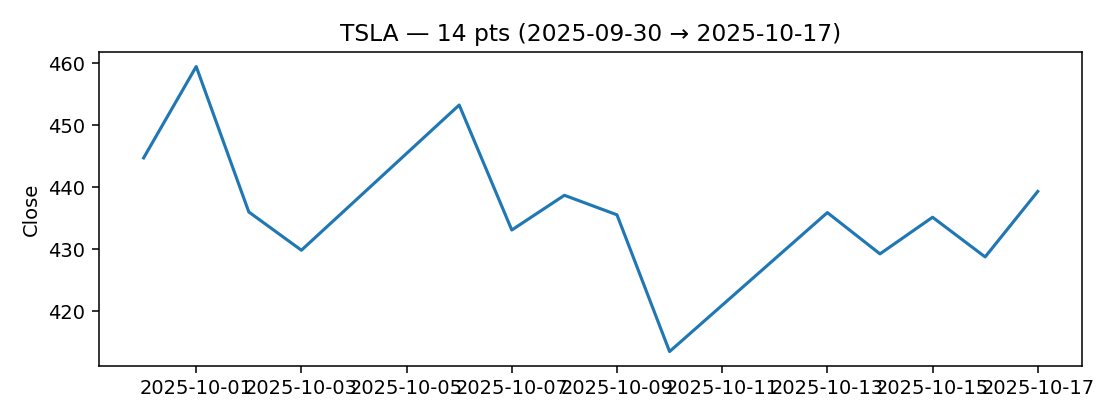
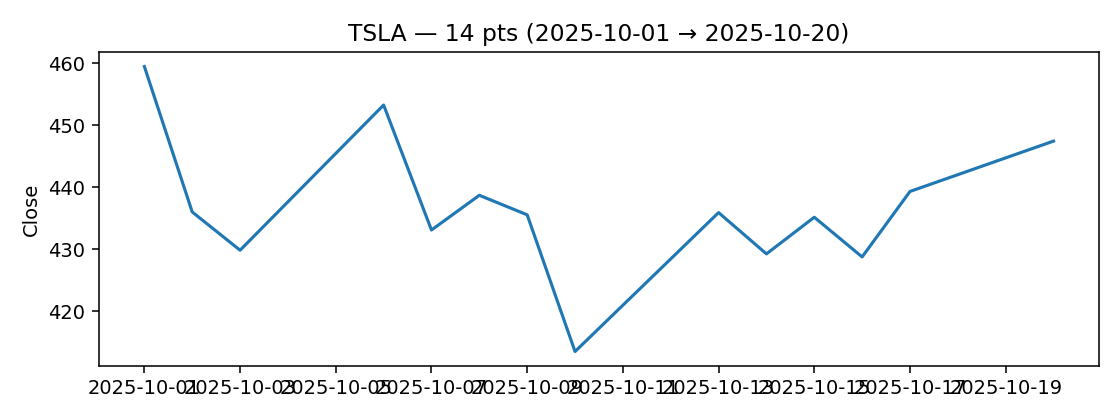
chore: update daily report 2025-10-21 08:36

diff --git a/docs/daily_report.html b/docs/daily_report.html
@@ -108,7 +108,7 @@
   <header>
     <div>
       <h1>Daily Study & News Companion</h1>
-      <div class="sub">2025-10-20 08:11 · TZ: CST</div>
+      <div class="sub">2025-10-21 08:36 · TZ: CST</div>
     </div>
     <button class="btn" id="themeBtn">🌓 Tema</button>
   </header>
@@ -150,11 +150,11 @@
           </div>
           <div class="mkt-body">
             <div class="metrics-row">
-          <div class="kv"><span>Last</span><b>213.04</b></div>
-          <div class="kv"><span>d/d</span><b class="down">-2.97%</b></div>
+          <div class="kv"><span>Last</span><b>216.48</b></div>
+          <div class="kv"><span>d/d</span><b class="down">-1.88%</b></div>
           <div class="kv"><span>Mín</span><b>213.04</b></div>
           <div class="kv"><span>Máx</span><b>227.74</b></div>
-          <div class="kv"><span>σ</span><b>3.96</b></div>
+          <div class="kv"><span>σ</span><b>4.04</b></div>
         </div>
             <div class="chart"><img src="charts/AMZN_close.png" alt="AMZN chart" loading="lazy"/></div>
           </div>
@@ -167,8 +167,8 @@
           </div>
           <div class="mkt-body">
             <div class="metrics-row">
-          <div class="kv"><span>Last</span><b>513.58</b></div>
-          <div class="kv"><span>d/d</span><b class="down">-0.84%</b></div>
+          <div class="kv"><span>Last</span><b>516.79</b></div>
+          <div class="kv"><span>d/d</span><b class="down">-0.56%</b></div>
           <div class="kv"><span>Mín</span><b>510.96</b></div>
           <div class="kv"><span>Máx</span><b>528.57</b></div>
           <div class="kv"><span>σ</span><b>5.26</b></div>
@@ -184,11 +184,11 @@
           </div>
           <div class="mkt-body">
             <div class="metrics-row">
-          <div class="kv"><span>Last</span><b>183.22</b></div>
-          <div class="kv"><span>d/d</span><b class="down">-1.80%</b></div>
+          <div class="kv"><span>Last</span><b>182.64</b></div>
+          <div class="kv"><span>d/d</span><b class="down">-2.46%</b></div>
           <div class="kv"><span>Mín</span><b>179.83</b></div>
           <div class="kv"><span>Máx</span><b>192.57</b></div>
-          <div class="kv"><span>σ</span><b>3.56</b></div>
+          <div class="kv"><span>σ</span><b>3.63</b></div>
         </div>
             <div class="chart"><img src="charts/NVDA_close.png" alt="NVDA chart" loading="lazy"/></div>
           </div>
@@ -201,11 +201,11 @@
           </div>
           <div class="mkt-body">
             <div class="metrics-row">
-          <div class="kv"><span>Last</span><b>439.31</b></div>
-          <div class="kv"><span>d/d</span><b class="down">-1.22%</b></div>
+          <div class="kv"><span>Last</span><b>447.43</b></div>
+          <div class="kv"><span>d/d</span><b class="down">-2.62%</b></div>
           <div class="kv"><span>Mín</span><b>413.49</b></div>
           <div class="kv"><span>Máx</span><b>459.46</b></div>
-          <div class="kv"><span>σ</span><b>10.66</b></div>
+          <div class="kv"><span>σ</span><b>10.82</b></div>
         </div>
             <div class="chart"><img src="charts/TSLA_close.png" alt="TSLA chart" loading="lazy"/></div>
           </div>
@@ -218,11 +218,11 @@
           </div>
           <div class="mkt-body">
             <div class="metrics-row">
-          <div class="kv"><span>Last</span><b>664.39</b></div>
-          <div class="kv"><span>d/d</span><b class="down">-0.27%</b></div>
+          <div class="kv"><span>Last</span><b>671.30</b></div>
+          <div class="kv"><span>d/d</span><b class="up">0.43%</b></div>
           <div class="kv"><span>Mín</span><b>653.02</b></div>
           <div class="kv"><span>Máx</span><b>673.11</b></div>
-          <div class="kv"><span>σ</span><b>5.13</b></div>
+          <div class="kv"><span>σ</span><b>5.29</b></div>
         </div>
             <div class="chart"><img src="charts/^GSPC_close.png" alt="^GSPC chart" loading="lazy"/></div>
           </div>
@@ -250,38 +250,38 @@
             <ul class="news-list">
               <li class="news-item" data-topic="AI">
                 <span class="dot"></span>
-                <a href="https://www.theverge.com/ai-artificial-intelligence/801994/openai-subpoenas-intimidation-tactics-nonprofits-elon-musk-restructuring" target="_blank" rel="noreferrer">These nonprofits lobbied to regulate OpenAI — then the subpoenas came</a>
-                <div class="meta">2025-10-20 14:00 · <span class="src">Hayden Field</span></div>
+                <a href="https://www.bloomberg.com/news/articles/2025-10-21/airbnb-ceo-brian-chesky-says-chatgpt-integration-not-ready-for-airbnb-app" target="_blank" rel="noreferrer">Chesky Says OpenAI Tools Not Ready for ChatGPT Tie-Up With Airbnb App</a>
+                <div class="meta">2025-10-21 12:00 · <span class="src">Natalie Lung</span></div>
               </li>
             
               <li class="news-item" data-topic="AI">
                 <span class="dot"></span>
-                <a href="https://techcrunch.com/2025/10/20/adobe-launches-a-foundry-service-that-builds-custom-generative-ai-models-for-enteprises/" target="_blank" rel="noreferrer">Adobe launches a foundry service that builds custom generative AI models for enteprises</a>
-                <div class="meta">2025-10-20 13:00 · <span class="src">Rebecca Szkutak</span></div>
+                <a href="https://www.bloomberg.com/news/articles/2025-10-21/unitedhealth-s-optum-real-uses-ai-to-speed-up-medical-claims" target="_blank" rel="noreferrer">UnitedHealth’s ‘Optum Real’ Uses AI to Speed Up Medical Claims</a>
+                <div class="meta">2025-10-21 11:00 · <span class="src">John Tozzi</span></div>
               </li>
             
               <li class="news-item" data-topic="AI">
                 <span class="dot"></span>
-                <a href="https://www.bloomberg.com/news/videos/2025-10-20/the-opening-trade-10-20-video" target="_blank" rel="noreferrer">AWS Suffers Service Disruption, Kering's €4 Billion Beauty Exit | The Opening Trade 10/20</a>
-                <div class="meta">2025-10-20 11:01 · <span class="src">www.bloomberg.com</span></div>
+                <a href="https://www.bloomberg.com/news/articles/2025-10-21/insight-owned-veeam-agrees-to-buy-securiti-ai-for-1-7-billion" target="_blank" rel="noreferrer">Insight-Owned Veeam Agrees to Buy Securiti AI for $1.7 Billion</a>
+                <div class="meta">2025-10-21 11:00 · <span class="src">Dina Bass</span></div>
               </li>
             
               <li class="news-item" data-topic="AI">
                 <span class="dot"></span>
-                <a href="https://www.bloomberg.com/news/articles/2025-10-20/us-subpoenas-builder-ai-s-ex-cfo-for-auditor-communications" target="_blank" rel="noreferrer">US Subpoenas Builder.ai’s Ex-CFO for Auditor Communications</a>
-                <div class="meta">2025-10-20 09:25 · <span class="src">Yazhou Sun, Mark Bergen, Newley Purnell</span></div>
+                <a href="https://www.bloomberg.com/news/articles/2025-10-21/ai-boom-transforms-utilities-from-haven-to-soaring-growth-stocks" target="_blank" rel="noreferrer">AI Boom Transforms Utilities From Haven to Soaring Growth Stocks</a>
+                <div class="meta">2025-10-21 10:30 · <span class="src">Carmen Reinicke</span></div>
               </li>
             
               <li class="news-item" data-topic="AI">
                 <span class="dot"></span>
-                <a href="https://www.theverge.com/news/802486/aws-outage-alexa-fortnite-snapchat-offline" target="_blank" rel="noreferrer">Major AWS outage took down Fortnite, Alexa, Snapchat, and more</a>
-                <div class="meta">2025-10-20 08:07 · <span class="src">Jess Weatherbed</span></div>
+                <a href="https://www.bloomberg.com/news/articles/2025-10-21/openai-looks-to-replace-the-drudgery-of-junior-bankers-workload" target="_blank" rel="noreferrer">OpenAI Hires Ex-Goldman Staff to Help Cut Down Junior Bankers’ Grunt Work</a>
+                <div class="meta">2025-10-21 10:06 · <span class="src">Omar El Chmouri</span></div>
               </li>
             
               <li class="news-item" data-topic="AI">
                 <span class="dot"></span>
-                <a href="https://techcrunch.com/2025/10/19/openais-embarrassing-math/" target="_blank" rel="noreferrer">OpenAI’s ‘embarrassing’ math</a>
-                <div class="meta">2025-10-19 18:56 · <span class="src">Anthony Ha</span></div>
+                <a href="https://www.bloomberg.com/news/articles/2025-10-21/sea-ceo-li-sees-path-to-1-trillion-market-cap-with-help-of-ai" target="_blank" rel="noreferrer">Sea CEO Li Sees Path to $1 Trillion Market Cap With Help of AI</a>
+                <div class="meta">2025-10-21 03:30 · <span class="src">Olivia Poh</span></div>
               </li>
             </ul>
           </div>
@@ -291,38 +291,38 @@
             <ul class="news-list">
               <li class="news-item" data-topic="Fintech">
                 <span class="dot"></span>
-                <a href="https://www.bloomberg.com/news/videos/2025-10-20/-climbing-the-foothills-of-credit-risk-polus-capital-video" target="_blank" rel="noreferrer">'Gradually Climbing the Foothills' of Credit Risk: Polus Capital</a>
-                <div class="meta">2025-10-20 13:59 · <span class="src">www.bloomberg.com</span></div>
+                <a href="https://www.bloomberg.com/news/videos/2025-10-21/atlas-merchant-very-bullish-on-regional-banks-ceo-video" target="_blank" rel="noreferrer">Atlas Merchant ‘Very Bullish’ on Regional Banks, Says CEO Diamond</a>
+                <div class="meta">2025-10-21 13:48 · <span class="src">www.bloomberg.com</span></div>
               </li>
             
               <li class="news-item" data-topic="Fintech">
                 <span class="dot"></span>
-                <a href="https://www.bloomberg.com/news/articles/2025-10-20/truist-looks-to-sell-high-grade-bonds-amid-regional-bank-concern" target="_blank" rel="noreferrer">Truist Looks to Sell High-Grade Bonds Amid Regional Bank Concern</a>
-                <div class="meta">2025-10-20 13:11 · <span class="src">Victor Swezey</span></div>
+                <a href="https://www.bloomberg.com/news/articles/2025-10-21/bofa-says-reserve-managers-may-cut-french-bonds-by-70-billion" target="_blank" rel="noreferrer">BofA Says Reserve Managers May Cut French Bonds by €70 Billion</a>
+                <div class="meta">2025-10-21 13:39 · <span class="src">Greg Ritchie</span></div>
               </li>
             
               <li class="news-item" data-topic="Fintech">
                 <span class="dot"></span>
-                <a href="https://www.bloomberg.com/news/articles/2025-10-20/argentina-central-bank-us-treasury-sign-20-billion-swap-deal" target="_blank" rel="noreferrer">US, Argentina Sign $20 Billion Swap Deal Before Midterm Vote</a>
-                <div class="meta">2025-10-20 12:29 · <span class="src">Manuela Tobias, Patrick Gillespie</span></div>
+                <a href="https://www.bloomberg.com/news/articles/2025-10-21/fitch-sees-south-africa-endorsing-3-inflation-target-next-month" target="_blank" rel="noreferrer">Fitch Sees South Africa Endorsing 3% Inflation Target Next Month</a>
+                <div class="meta">2025-10-21 13:28 · <span class="src">Ntando Thukwana</span></div>
               </li>
             
               <li class="news-item" data-topic="Fintech">
                 <span class="dot"></span>
-                <a href="https://www.bloomberg.com/news/videos/2025-10-20/blackrock-s-koesterich-sees-upside-in-stocks-to-year-end-video" target="_blank" rel="noreferrer">BlackRock’s Koesterich Sees Upside in Stocks to Year End</a>
-                <div class="meta">2025-10-20 12:13 · <span class="src">www.bloomberg.com</span></div>
+                <a href="https://www.bloomberg.com/news/videos/2025-10-21/bloomberg-businessweek-daily-10-20-2025-video" target="_blank" rel="noreferrer">Automakers Headline Earnings This Week | Bloomberg Businessweek Daily 10/20/2025</a>
+                <div class="meta">2025-10-21 13:22 · <span class="src">www.bloomberg.com</span></div>
               </li>
             
               <li class="news-item" data-topic="Fintech">
                 <span class="dot"></span>
-                <a href="https://www.bloomberg.com/news/videos/2025-10-20/bloomberg-brief-10-20-2025-video" target="_blank" rel="noreferrer">Stocks Rise Ahead of Earnings; Trump Lists Top Trade Demands for China | Bloomberg Brief 10/20/2025</a>
-                <div class="meta">2025-10-20 11:01 · <span class="src">www.bloomberg.com</span></div>
+                <a href="https://www.bloomberg.com/news/articles/2025-10-21/hungary-holds-key-interest-rate-defying-orban-s-pressure" target="_blank" rel="noreferrer">Hungary Holds Key Interest Rate, Defying Orban’s Pressure</a>
+                <div class="meta">2025-10-21 12:00 · <span class="src">Marton Kasnyik, Zoltan Simon</span></div>
               </li>
             
               <li class="news-item" data-topic="Fintech">
                 <span class="dot"></span>
-                <a href="https://www.bloomberg.com/news/articles/2025-10-20/goldman-citadel-chiefs-set-to-attend-hong-kong-november-summit" target="_blank" rel="noreferrer">Goldman, Citadel Chiefs Set to Attend Hong Kong Summit</a>
-                <div class="meta">2025-10-20 05:06 · <span class="src">Kiuyan Wong, Lulu Yilun Chen</span></div>
+                <a href="https://www.bloomberg.com/news/articles/2025-10-21/solomon-calls-regional-bank-losses-idiosyncratic-events" target="_blank" rel="noreferrer">Solomon Calls Regional Bank Losses ‘Idiosyncratic Events’</a>
+                <div class="meta">2025-10-21 11:50 · <span class="src">Annika Inampudi</span></div>
               </li>
             </ul>
           </div>
@@ -332,38 +332,38 @@
             <ul class="news-list">
               <li class="news-item" data-topic="General">
                 <span class="dot"></span>
-                <a href="https://www.bloomberg.com/news/articles/2025-10-20/shutdown-stalemate-brings-us-ipo-holdouts-off-the-sidelines" target="_blank" rel="noreferrer">Shutdown Stalemate Brings US IPO Holdouts Off the Sidelines</a>
-                <div class="meta">2025-10-20 14:00 · <span class="src">Bailey Lipschultz</span></div>
+                <a href="https://www.bloomberg.com/news/articles/2025-10-21/gm-ends-electric-van-output-in-latest-setback-for-canadian-autos" target="_blank" rel="noreferrer">GM Ends Electric Van Output in Latest Setback for Canadian Autos</a>
+                <div class="meta">2025-10-21 13:46 · <span class="src">Derek Decloet</span></div>
               </li>
             
               <li class="news-item" data-topic="General">
                 <span class="dot"></span>
-                <a href="https://www.bloomberg.com/news/articles/2025-10-20/musk-pay-plan-draws-more-pushback-as-glass-lewis-urges-no-vote" target="_blank" rel="noreferrer">Musk Pay Draws More Pushback as Glass Lewis Urges ‘No’ Vote</a>
-                <div class="meta">2025-10-20 13:37 · <span class="src">Kara Carlson, Dana Hull</span></div>
+                <a href="https://www.bloomberg.com/news/articles/2025-10-21/first-brands-bankruptcy-jefferies-fund-boasted-perfect-record-before-collapse" target="_blank" rel="noreferrer">Jefferies’ Fund Boasted Perfect Record Before First Brands Crash</a>
+                <div class="meta">2025-10-21 13:45 · <span class="src">Irene Garcia Perez, Katherine Doherty, Nishant Kumar, Eliza Ronalds-Hannon</span></div>
               </li>
             
               <li class="news-item" data-topic="General">
                 <span class="dot"></span>
-                <a href="https://www.bloomberg.com/news/articles/2025-10-20/escalation-of-colombia-us-conflict-risks-derailing-bond-rally" target="_blank" rel="noreferrer">Escalation of Colombia-US Conflict Risks Derailing Bond Rally</a>
-                <div class="meta">2025-10-20 13:21 · <span class="src">Nicolle Yapur</span></div>
+                <a href="https://www.bloomberg.com/news/articles/2025-10-21/new-battery-factory-to-boost-power-for-pennsylvania-data-centers" target="_blank" rel="noreferrer">Eos Shares Surge on Deal to Power Pennsylvania Data Centers</a>
+                <div class="meta">2025-10-21 12:11 · <span class="src">Tope Alake, Naureen S Malik</span></div>
               </li>
             
               <li class="news-item" data-topic="General">
                 <span class="dot"></span>
-                <a href="https://www.bloomberg.com/news/articles/2025-10-20/ethiopia-in-talks-with-china-to-convert-dollar-loans-into-yuan" target="_blank" rel="noreferrer">Ethiopia in Talks With China to Convert Dollar Loans Into Yuan</a>
-                <div class="meta">2025-10-20 13:16 · <span class="src">Matthew Hill, Fasika Tadesse</span></div>
+                <a href="https://www.bloomberg.com/news/articles/2025-10-21/rtx-boosts-outlook-as-profit-jumps-at-aerospace-defense-units" target="_blank" rel="noreferrer">RTX Boosts Outlook as Aerospace, Defense Gains Blunt Tariffs</a>
+                <div class="meta">2025-10-21 10:56 · <span class="src">Kiel Porter</span></div>
               </li>
             
               <li class="news-item" data-topic="General">
                 <span class="dot"></span>
-                <a href="https://www.bloomberg.com/news/articles/2025-10-20/apple-nears-record-high-as-loop-sees-25-upside-on-iphone-demand" target="_blank" rel="noreferrer">Apple Nears Record High as Loop Sees 25% Upside on iPhone Demand</a>
-                <div class="meta">2025-10-20 12:33 · <span class="src">Ryan Vlastelica</span></div>
+                <a href="https://www.bloomberg.com/news/articles/2025-10-21/gm-raises-outlook-as-strong-truck-demand-dulls-tariff-pain" target="_blank" rel="noreferrer">GM Raises Outlook as Strong Truck Demand Dulls Tariff Pain</a>
+                <div class="meta">2025-10-21 10:31 · <span class="src">David Welch</span></div>
               </li>
             
               <li class="news-item" data-topic="General">
                 <span class="dot"></span>
-                <a href="https://www.bloomberg.com/news/articles/2025-10-20/china-cancels-platinum-tax-rebates-that-have-stood-since-2003" target="_blank" rel="noreferrer">China Scraps Platinum Tax Break for State-Owned Giant</a>
-                <div class="meta">2025-10-20 09:39 · <span class="src">Preeti Soni, Jack Ryan</span></div>
+                <a href="https://www.bloomberg.com/news/articles/2025-10-20/stock-market-today-dow-s-p-live-updates" target="_blank" rel="noreferrer">Stock Rally Flashes Signs of Fatigue as Gold Sinks: Markets Wrap</a>
+                <div class="meta">2025-10-20 22:32 · <span class="src">Rita Nazareth</span></div>
               </li>
             </ul>
           </div>
@@ -373,38 +373,38 @@
             <ul class="news-list">
               <li class="news-item" data-topic="Machine Learning">
                 <span class="dot"></span>
-                <a href="https://www.bloomberg.com/news/videos/2025-10-20/better-to-buy-a-company-than-to-found-one-skinner-video" target="_blank" rel="noreferrer">Better to Buy a Company Than to Found One: Charles Skinner</a>
-                <div class="meta">2025-10-20 14:03 · <span class="src">www.bloomberg.com</span></div>
+                <a href="https://www.bloomberg.com/news/articles/2025-10-21/bessent-confirms-economic-stabilization-deal-with-argentina" target="_blank" rel="noreferrer">Argentina Bonds Climb as Bessent Seals ‘Stabilization’ Deal</a>
+                <div class="meta">2025-10-21 13:22 · <span class="src">John Harney, Nicolle Yapur</span></div>
               </li>
             
               <li class="news-item" data-topic="Machine Learning">
                 <span class="dot"></span>
-                <a href="https://www.bloomberg.com/news/articles/2025-10-20/catl-profit-rises-41-as-battery-maker-s-overseas-push-continues" target="_blank" rel="noreferrer">CATL Profit Rises 41% as Battery Maker’s Overseas Push Continues</a>
-                <div class="meta">2025-10-20 13:00 · <span class="src">Charlie Zhu, Chunying Zhang, Danny Lee</span></div>
+                <a href="https://www.bloomberg.com/news/articles/2025-10-21/chinese-firm-plans-world-s-largest-wind-turbine-as-rivals-flop" target="_blank" rel="noreferrer">China Firm Plans World’s Largest Wind Turbine as Rivals Flop</a>
+                <div class="meta">2025-10-21 08:04 · <span class="src">Dan Murtaugh, Ocean Hou</span></div>
               </li>
             
               <li class="news-item" data-topic="Machine Learning">
                 <span class="dot"></span>
-                <a href="https://www.bloomberg.com/news/articles/2025-10-20/soybeans-climb-to-month-high-on-trump-xi-meeting-speculation" target="_blank" rel="noreferrer">Soybeans Climb to Month High on Trump-Xi Meeting Speculation</a>
-                <div class="meta">2025-10-20 12:28 · <span class="src">Pyotr Kozlov</span></div>
+                <a href="https://www.bloomberg.com/news/newsletters/2025-10-21/europe-s-sovereign-tech-push-moves-capital-to-rockets-drones-and-war" target="_blank" rel="noreferrer">Europe’s Sovereign Tech Push Moves Capital to Rockets, Drones and War</a>
+                <div class="meta">2025-10-21 08:00 · <span class="src">Mark Bergen</span></div>
               </li>
             
               <li class="news-item" data-topic="Machine Learning">
                 <span class="dot"></span>
-                <a href="https://www.bloomberg.com/news/articles/2025-10-20/oil-at-sea-climbs-to-new-high-on-rising-supply-longer-voyages" target="_blank" rel="noreferrer">Oil’s Billion-Barrel Sea Surplus Expands as Output Swells</a>
-                <div class="meta">2025-10-20 11:57 · <span class="src">Julian Lee</span></div>
+                <a href="https://www.bloomberg.com/news/articles/2025-10-21/swiss-watch-exports-slump-in-september-hurt-by-us-tariffs" target="_blank" rel="noreferrer">Swiss Watch Exports Slump in September on US Tariffs</a>
+                <div class="meta">2025-10-21 06:57 · <span class="src">Allegra Catelli</span></div>
               </li>
             
               <li class="news-item" data-topic="Machine Learning">
                 <span class="dot"></span>
-                <a href="https://www.bloomberg.com/news/articles/2025-10-20/thyssenkrupp-s-shipmaking-spinoff-tkms-surges-in-german-debut" target="_blank" rel="noreferrer">Thyssenkrupp’s Naval Spinoff TKMS Soars in Debut on Defense Boom</a>
-                <div class="meta">2025-10-20 07:33 · <span class="src">Isolde MacDonogh, William Wilkes</span></div>
+                <a href="https://www.ft.com/content/af8042f0-5de9-4509-bcb2-2d98d26a3d21" target="_blank" rel="noreferrer">Netherlands curtails intelligence-sharing with US over ‘human rights’</a>
+                <div class="meta">2025-10-20 18:15 · <span class="src">www.ft.com</span></div>
               </li>
             
               <li class="news-item" data-topic="Machine Learning">
                 <span class="dot"></span>
-                <a href="https://www.bloomberg.com/news/articles/2025-10-19/us-stock-futures-rise-as-china-trade-tensions-cool-markets-wrap" target="_blank" rel="noreferrer">Stocks Climb at Start of Busy Week for Earnings: Markets Wrap</a>
-                <div class="meta">2025-10-19 22:14 · <span class="src">Rita Nazareth</span></div>
+                <a href="https://www.ft.com/content/20a41258-48ff-4d18-bf04-e45c8238229e" target="_blank" rel="noreferrer">Nexperia’s China unit says staff can ignore orders from Dutch headquarters</a>
+                <div class="meta">2025-10-20 09:32 · <span class="src">www.ft.com</span></div>
               </li>
             </ul>
           </div>
@@ -414,7 +414,7 @@
     </main>
   </div>
 
-  <footer>Generado localmente · 2025-10-20 08:11</footer>
+  <footer>Generado localmente · 2025-10-21 08:36</footer>
 
   <script>
     'use strict';
